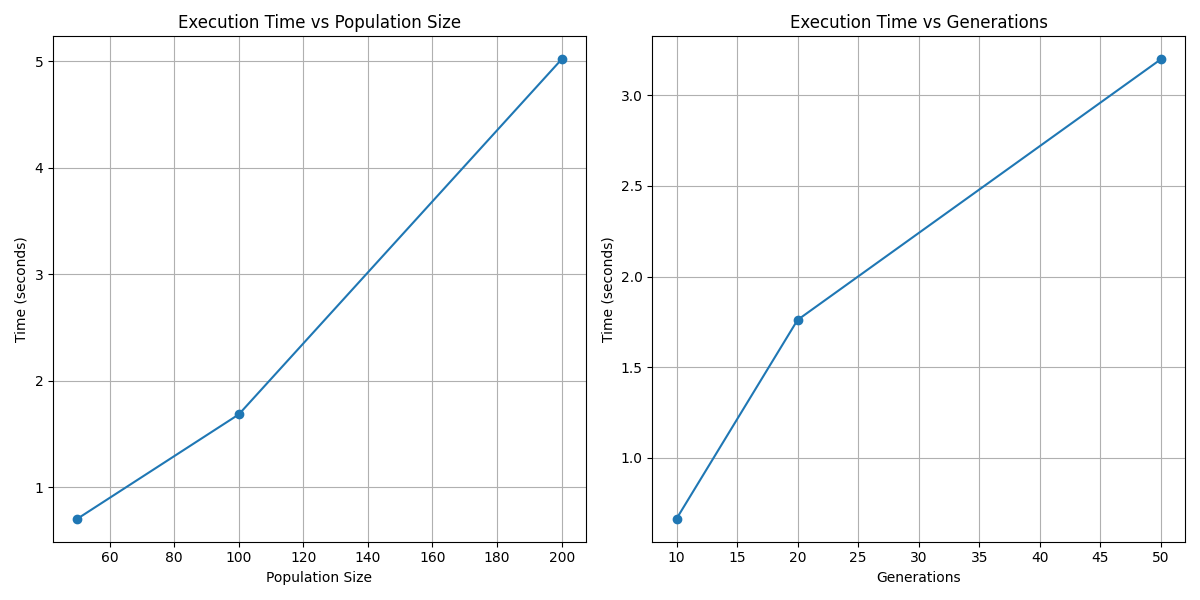
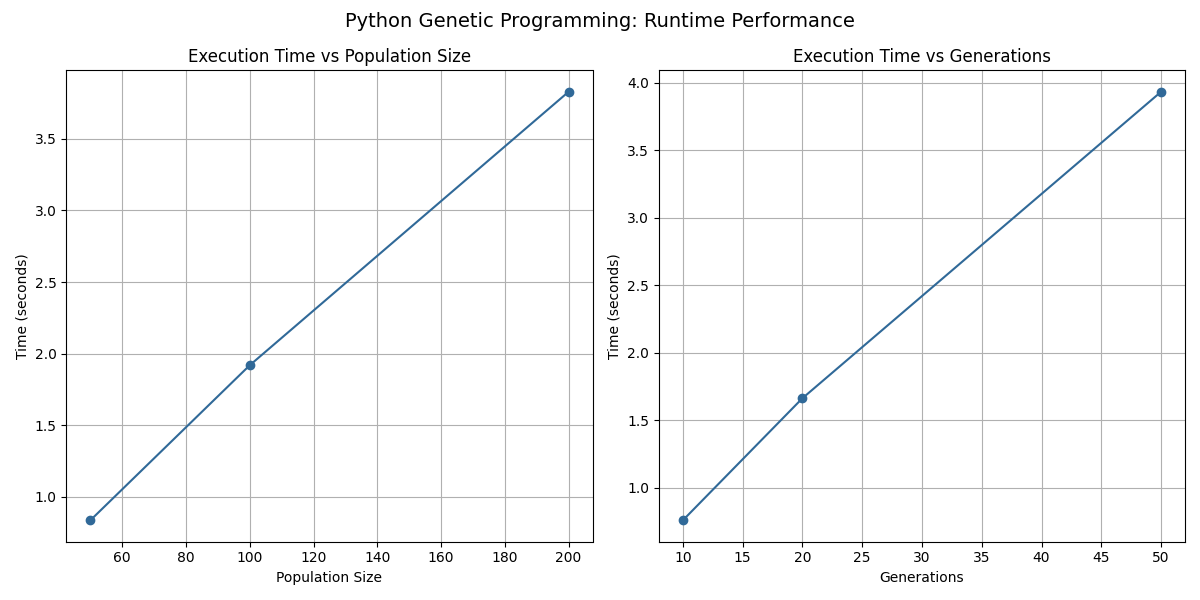
chore: Update Python benchmarking module for plotting generation

diff --git a/src/python_benchmarks.py b/src/python_benchmarks.py
@@ -364,30 +364,61 @@ def run_benchmarks():
         results_df = pd.DataFrame(results)
         results_df.to_csv('../data/python_gp_benchmarks.csv', index=False)
         
-        # Plot results
+        # Ensure output directory exists
+        os.makedirs('../docs/img', exist_ok=True)
+        
+        # Get filtered data
+        pop_results = results_df[results_df['parameter'] == 'Population Size']
+        gen_results = results_df[results_df['parameter'] == 'Generations']
+        
+        # Plot runtime results
         plt.figure(figsize=(12, 6))
         
         # Plot population size benchmarks
-        pop_results = results_df[results_df['parameter'] == 'Population Size']
         plt.subplot(1, 2, 1)
-        plt.plot(pop_results['value'], pop_results['time'], 'o-', label='Execution Time')
+        plt.plot(pop_results['value'], pop_results['time'], 'o-', color='#306998', label='Execution Time')
         plt.xlabel('Population Size')
         plt.ylabel('Time (seconds)')
         plt.title('Execution Time vs Population Size')
         plt.grid(True)
         
         # Plot generation benchmarks
-        gen_results = results_df[results_df['parameter'] == 'Generations']
         plt.subplot(1, 2, 2)
-        plt.plot(gen_results['value'], gen_results['time'], 'o-', label='Execution Time')
+        plt.plot(gen_results['value'], gen_results['time'], 'o-', color='#306998', label='Execution Time')
         plt.xlabel('Generations')
         plt.ylabel('Time (seconds)')
         plt.title('Execution Time vs Generations')
         plt.grid(True)
         
+        plt.suptitle('Python Genetic Programming: Runtime Performance', fontsize=14)
         plt.tight_layout()
         plt.savefig('../docs/img/python_benchmarks.png')
         plt.close()
+        
+        # Plot accuracy results
+        plt.figure(figsize=(12, 6))
+        
+        # Plot population size vs accuracy
+        plt.subplot(1, 2, 1)
+        plt.plot(pop_results['value'], pop_results['accuracy'], 'o-', color='#306998', label='Accuracy')
+        plt.xlabel('Population Size')
+        plt.ylabel('Accuracy')
+        plt.title('Accuracy vs Population Size')
+        plt.grid(True)
+        
+        # Plot generations vs accuracy
+        plt.subplot(1, 2, 2)
+        plt.plot(gen_results['value'], gen_results['accuracy'], 'o-', color='#306998', label='Accuracy')
+        plt.xlabel('Generations')
+        plt.ylabel('Accuracy')
+        plt.title('Accuracy vs Generations')
+        plt.grid(True)
+        
+        plt.suptitle('Python Genetic Programming: Classification Accuracy', fontsize=14)
+        plt.tight_layout()
+        plt.savefig('../docs/img/python_accuracy.png')
+        plt.close()
+        
     except Exception as e:
         print(f"Error creating plots: {str(e)}")
     
@@ -398,4 +429,6 @@ if __name__ == "__main__":
     benchmark_results = run_benchmarks()
     if benchmark_results is not None:
         print("\nBenchmark results saved to '../data/python_gp_benchmarks.csv'")
-        print("Benchmark plots saved to '../data/python_benchmarks.png'")
+        print("Benchmark plots saved to:")
+        print("- '../docs/img/python_benchmarks.png' (Runtime)")
+        print("- '../docs/img/python_accuracy.png' (Accuracy)")
